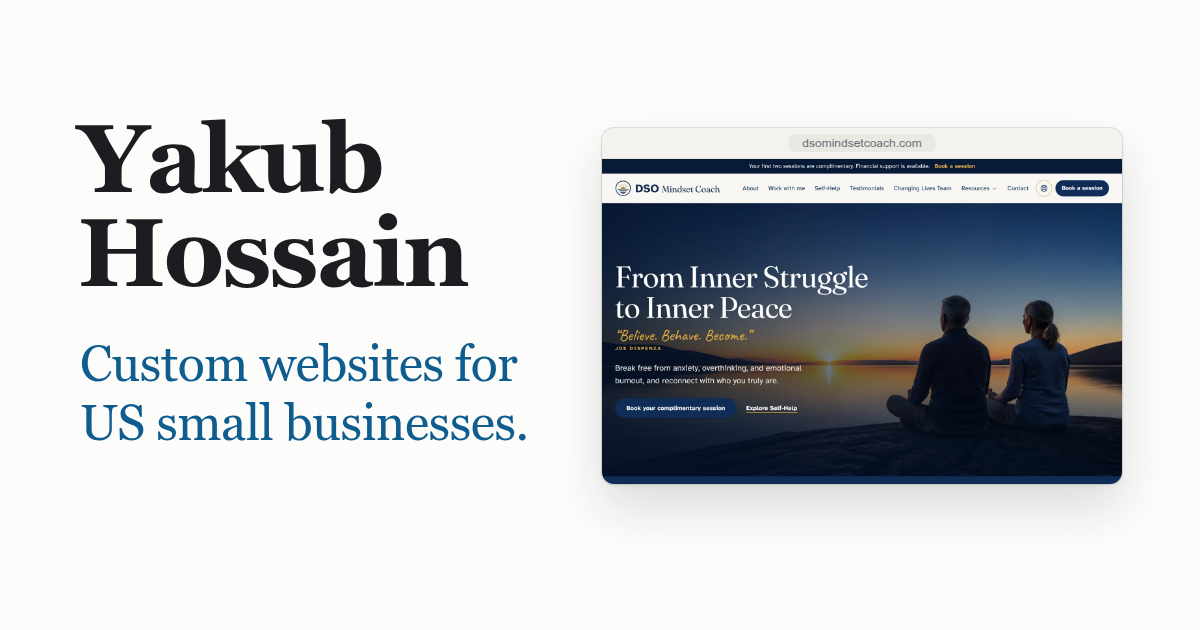
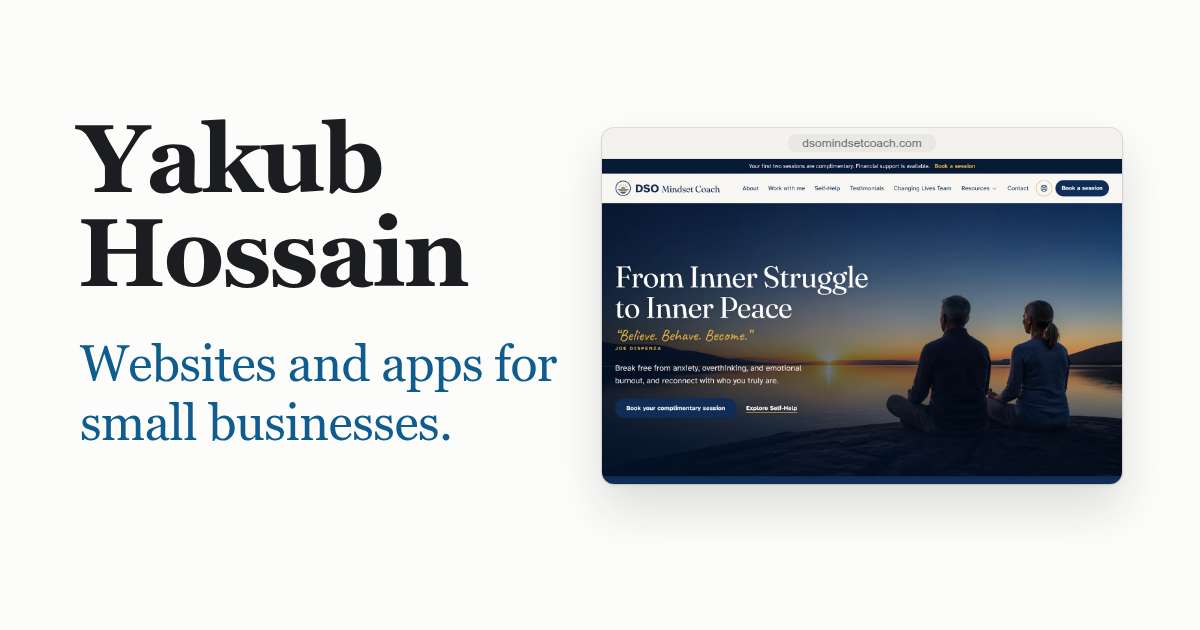
Portfolio: share card line covers sites and apps for small businesses

Changed region(s): [[0.0617, 0.5429, 0.4625, 0.7238]]

diff --git a/index.html b/index.html
@@ -6,13 +6,13 @@
 <title>Yakub Hossain</title>
 <meta name="description" content="Yakub Hossain builds and ships web products end to end with AI coding agents: client sites on Payload and Next.js, self hosted infrastructure, and open source fixes. Dhaka, working with clients in the US.">
 <meta property="og:title" content="Yakub Hossain, full stack developer">
-<meta property="og:description" content="Full stack developer in Dhaka. I build Next.js and Payload CMS sites for US businesses and run them in production.">
+<meta property="og:description" content="Full stack developer in Dhaka. I build Next.js sites and apps for small businesses and run them in production.">
 <meta property="og:type" content="website">
 <meta property="og:image" content="https://yakubhossain.dev/assets/og.png">
 <meta property="og:image:type" content="image/png">
 <meta property="og:image:width" content="1200">
 <meta property="og:image:height" content="630">
-<meta property="og:image:alt" content="Yakub Hossain, custom websites for US small businesses, next to a client website in a browser window.">
+<meta property="og:image:alt" content="Yakub Hossain, websites and apps for small businesses, next to a client website in a browser window.">
 <meta property="og:url" content="https://yakubhossain.dev/">
 <meta name="twitter:card" content="summary_large_image">
 <link rel="canonical" href="https://yakubhossain.dev/">
